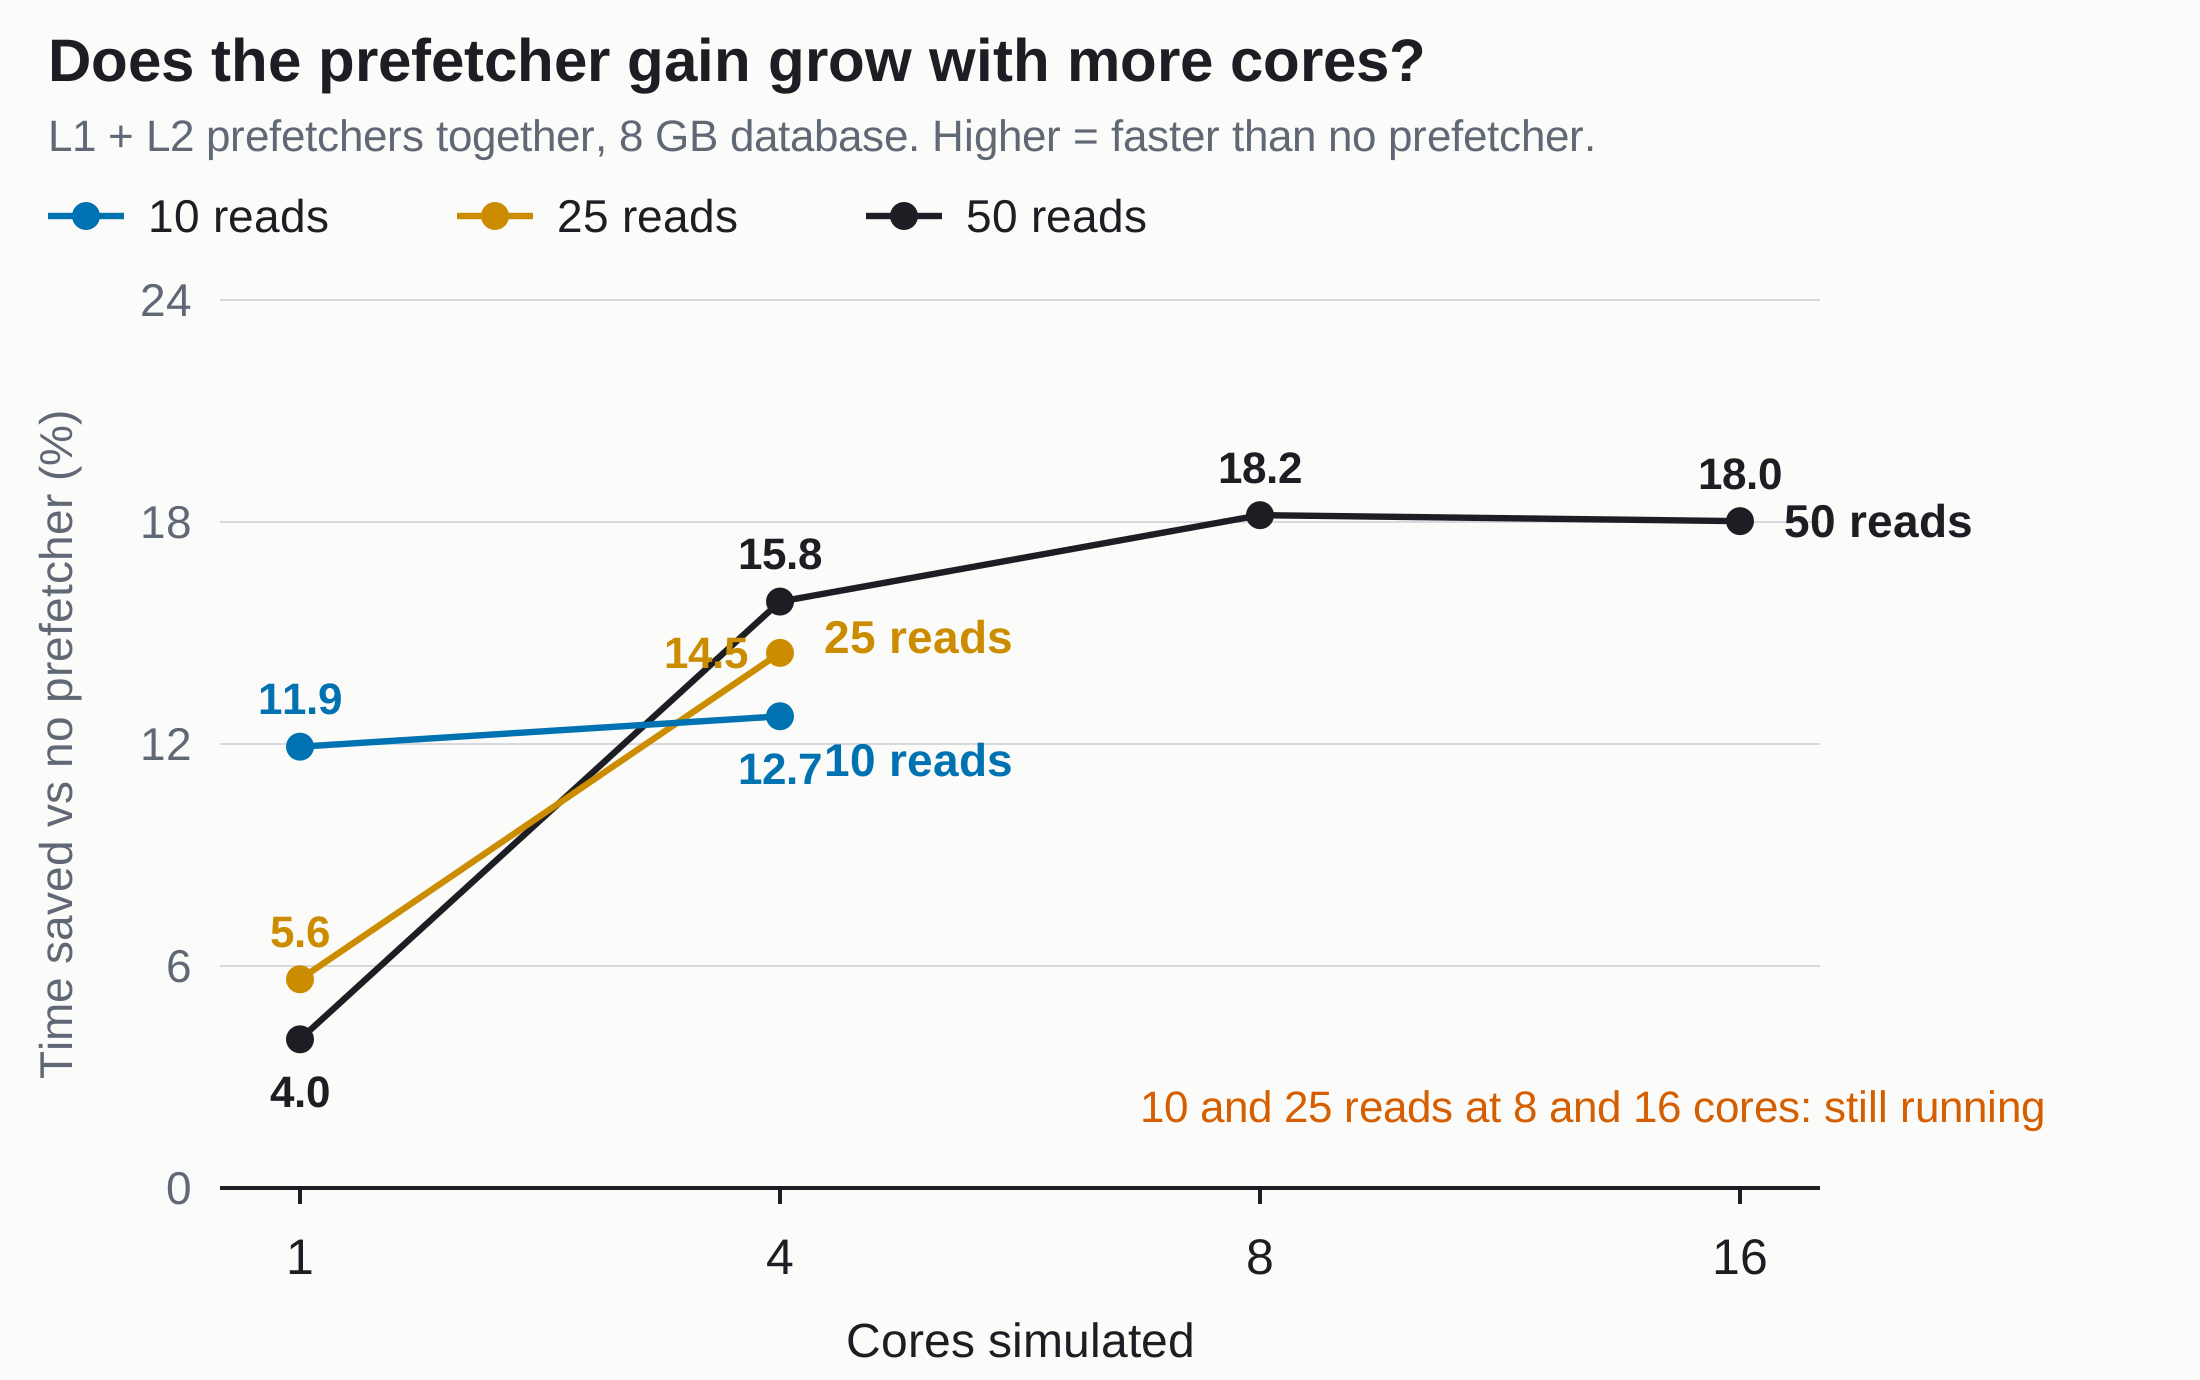
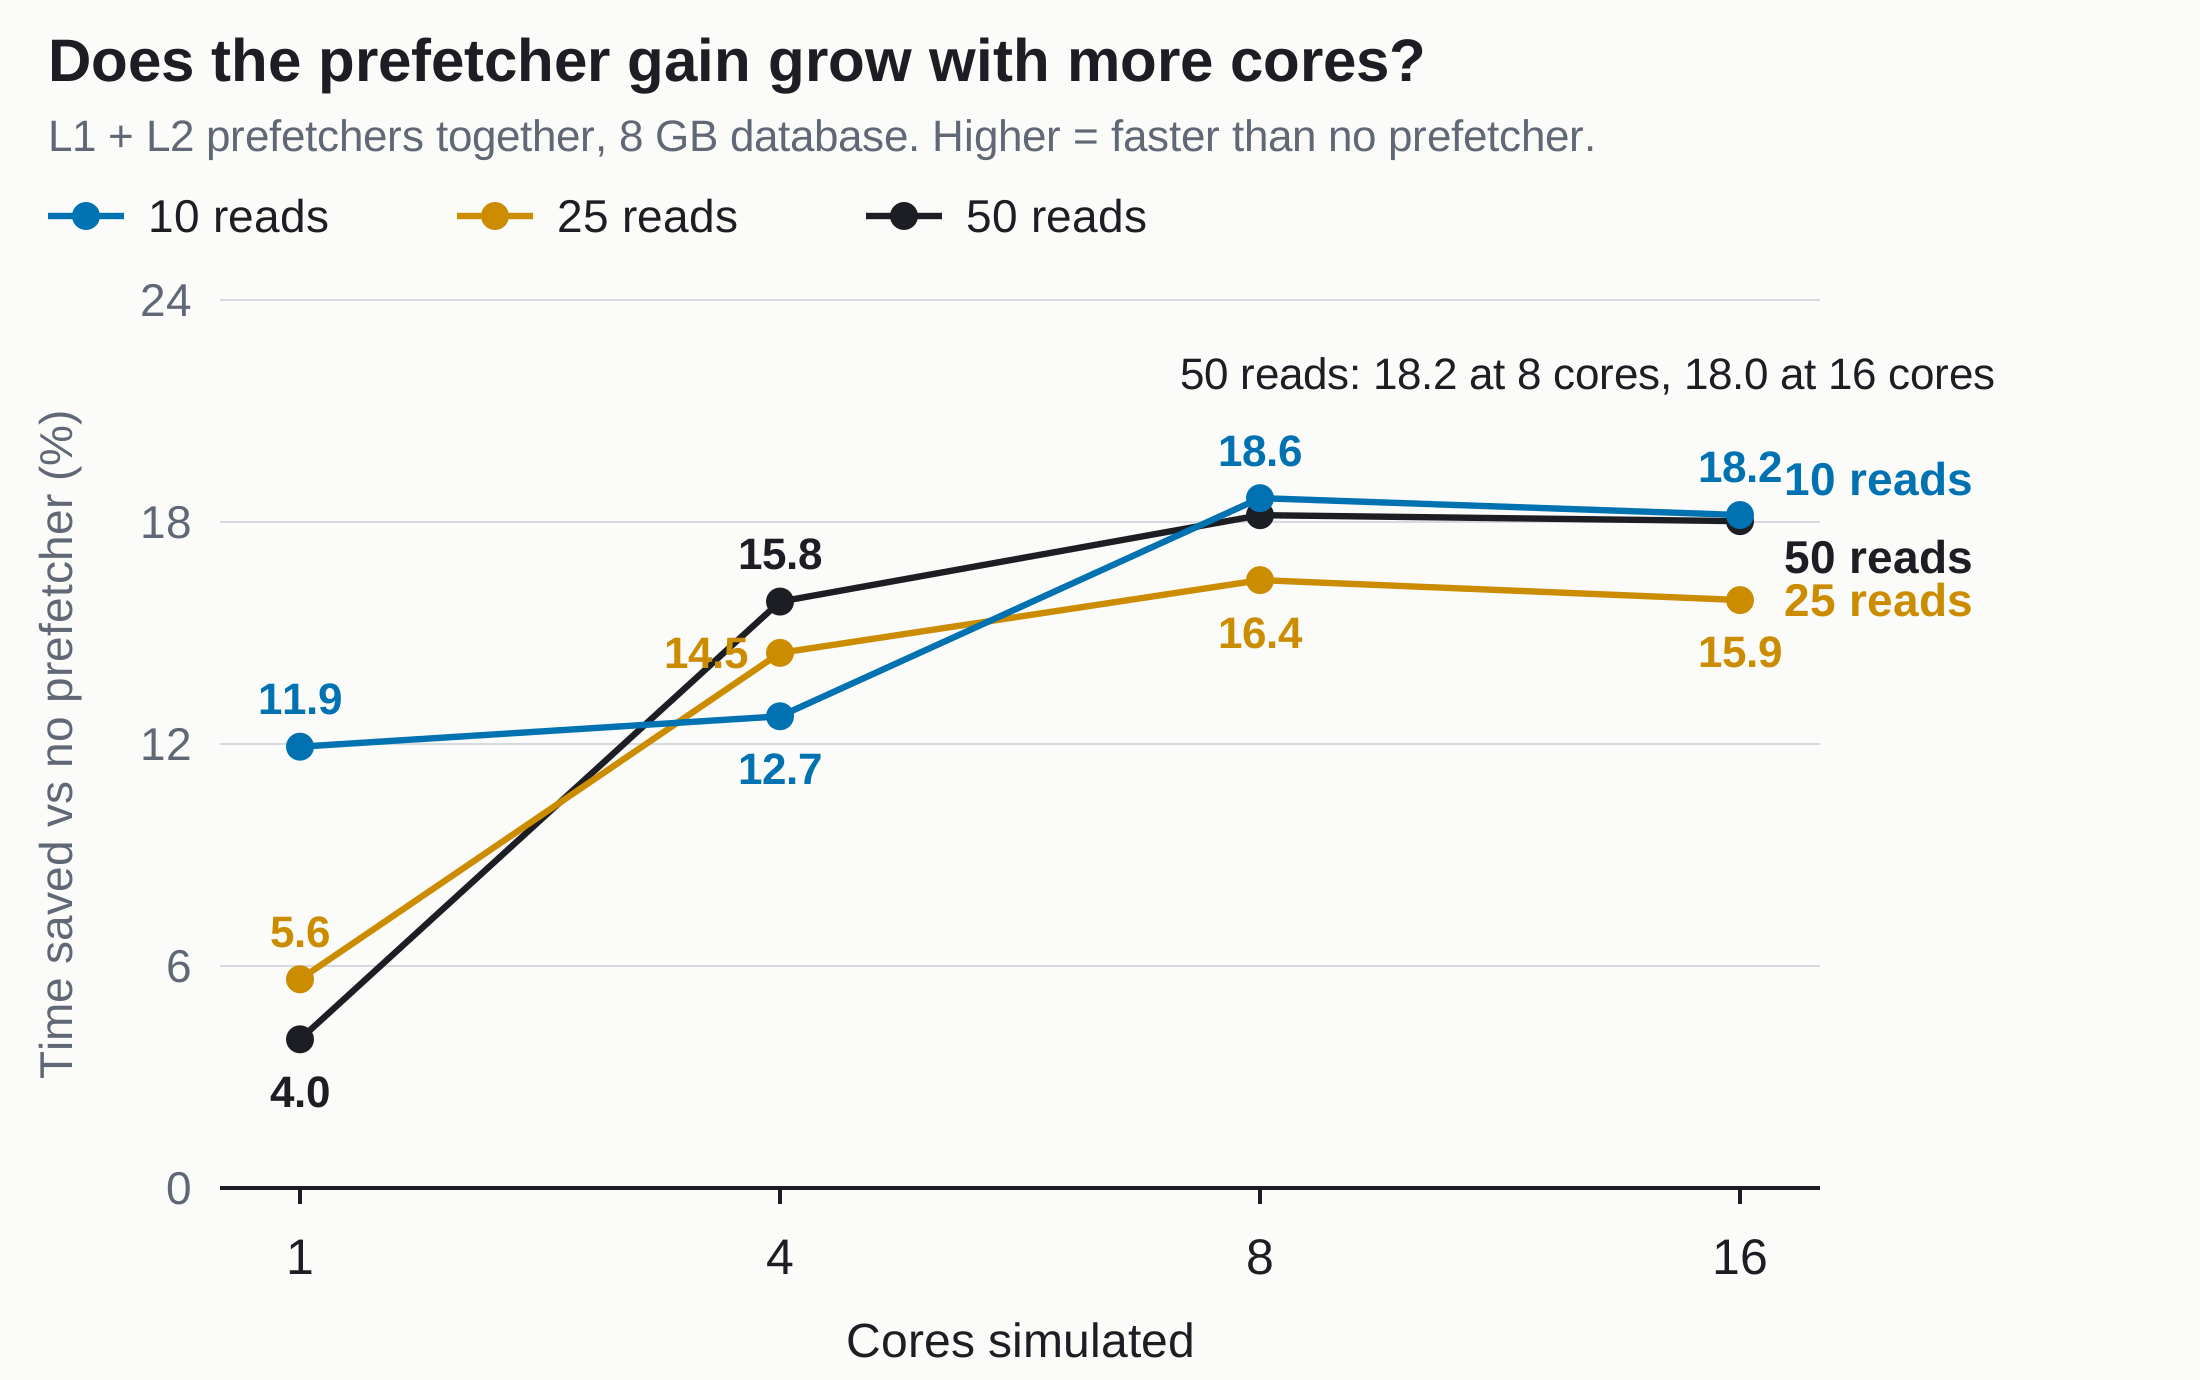
cache_simulation: sniper redo: 8 and 16 cores at 10 and 25 reads done (198 runs); gain is 16 to 19% at every read count; slide 2 updated

diff --git a/cache_simulation/sniper_redo/deck2/project/slides/cores.html b/cache_simulation/sniper_redo/deck2/project/slides/cores.html
@@ -1,12 +1,12 @@
 <section id="cores" data-transition="fade">
 <h2>More cores, a bigger prefetching gain</h2>
 <div class="chartrow">
-<img src="/_blob/89b083a33649e8f7692cfb26c497d13b" alt="Line chart of time saved by L1 and L2 prefetchers together against the number of cores simulated, 1, 4, 8 and 16, with one line each for 10, 25 and 50 reads on the 8 GB database. On one core the saving is 11.9, 5.6 and 4.0 percent for 10, 25 and 50 reads. On four cores it is 12.7, 14.5 and 15.8 percent. At 8 and 16 cores with 50 reads it is 18.2 and 18.0 percent. The 10 and 25 read points at 8 and 16 cores were still running when this slide was made." style="width:1000px; height:627px; object-fit:contain">
+<img src="/_blob/4d6b4b9f0c276f58bfc41fa57574f5d2" alt="Line chart of time saved by L1 and L2 prefetchers together against the number of cores simulated, 1, 4, 8 and 16, with one line each for 10, 25 and 50 reads on the 8 GB database. On one core the saving is 11.9, 5.6 and 4.0 percent for 10, 25 and 50 reads. On four cores it is 12.7, 14.5 and 15.8 percent. At 8 cores it is 18.6, 16.4 and 18.2 percent, and at 16 cores 18.2, 15.9 and 18.0 percent." style="width:1000px; height:627px; object-fit:contain">
 <div class="side">
 <div class="blk"><h3>How to read it</h3><p>One line per read count. Height is the time saved by the L1 and L2 prefetchers together, against a run with no prefetcher. Higher is faster.</p></div>
-<div class="blk"><h3>What we found</h3><p>One core: 4% to 12% saved. Four cores: 13% to 16%. At 8 and 16 cores on 50 reads: 18%. On the 16 GB database at 16 cores: 24.9%.</p></div>
-<div class="blk warn"><h3>Caution</h3><p>With few reads per core, start-up work is a large share of the run, and part of the multi-core gain may be that. Not tested.</p></div>
+<div class="blk"><h3>What we found</h3><p>One core: 4% to 12% saved. Four cores: 13% to 16%. Eight and 16 cores: 16% to 19% at every read count. On the 16 GB database at 16 cores: 24.9%.</p></div>
+<div class="blk warn"><h3>Caution</h3><p>At 8 and 16 cores the gain is the same at 10, 25 and 50 reads, yet at 10 reads on 16 cores most of the 64 M instructions are thread start-up. So much of the multi-core gain is likely start-up work. Not proven.</p></div>
 </div>
 </div>
-<aside>All values are Sniper simulated time, with and without the prefetchers, at the same core count, read count and database. The baseline has no prefetcher at all, so the gain on the real machine, whose CPU already has prefetchers, would be smaller. Instruction count at 50 reads rises from 52 M on one core to 87 M on 8 cores and 130 M on 16 cores, which is thread start-up and splitting overhead. A control (a 4-way LLC change) stayed within 0.9% of base at every core count, so the gap is not noise. The 8 and 16 core runs at 10 and 25 reads were still running when this was built; the graph marks the missing points.</aside>
+<aside>All values are Sniper simulated time, with and without the prefetchers, at the same core count, read count and database. The baseline has no prefetcher at all, so the gain on the real machine, whose CPU already has prefetchers, would be smaller. Instruction counts: 10 reads takes 7.3 M instructions on one core but 32 M on 8 cores and 64 M on 16 cores; 50 reads takes 52 M, 87 M and 130 M. The extra instructions are thread start-up and splitting overhead, and they grow with the core count. That is consistent with the gain growing with cores while staying flat across read counts, but we have not tested it directly. A control (a 4-way LLC change) stayed within 0.9% of base at every core count, so the gain is not noise. Exact values at 8 cores: 18.6, 16.4, 18.2 percent; at 16 cores: 18.2, 15.9, 18.0 percent (10, 25, 50 reads).</aside>
 </section>

diff --git a/cache_simulation/sniper_redo/figures/plot_figs.py b/cache_simulation/sniper_redo/figures/plot_figs.py
@@ -389,15 +389,20 @@ def fig6(c, bg):
 
     # value labels: 50 reads above, 10 reads above at 1 core and below at 4+ cores, 25 reads below its point,
     # so the three never share the crowded 4-core spot
+    # at 8 and 16 cores the 10- and 50-read lines are within 0.6 points of each other, so their values are
+    # given in one note instead of two labels on top of each other
     series = [
-        {"vals": get(50), "color": INK, "label": "50 reads", "below": (0,)},
-        {"vals": get(25), "color": AMBER, "label": "25 reads", "left": (1, 2, 3), "label_dy": -8},
-        {"vals": get(10), "color": BLUE, "label": "10 reads", "below": (1, 2, 3), "label_dy": 22},
+        {"vals": get(50), "color": INK, "label": "50 reads", "below": (0,), "skip": (2, 3), "label_dy": 18},
+        {"vals": get(25), "color": AMBER, "label": "25 reads", "left": (1,), "below": (2, 3)},
+        {"vals": get(10), "color": BLUE, "label": "10 reads", "below": (1,), "label_dy": -18},
     ]
     head = ("Does the prefetcher gain grow with more cores?",
             "L1 + L2 prefetchers together, 8 GB database. Higher = faster than no prefetcher.",
             [("line", BLUE, "10 reads"), ("line", AMBER, "25 reads"), ("line", INK, "50 reads")])
     anns = []
+    if all(v is not None for v in get(50)[2:]):
+        anns.append({"i": 2, "v": 22.0, "dx": -40, "color": INK,
+                     "text": f"50 reads: {get(50)[2]:.1f} at 8 cores, {get(50)[3]:.1f} at 16 cores"})
     if any(v is None for v in get(10)[2:] + get(25)[2:]):  # shown only while those runs are missing
         anns.append({"i": 2, "v": 2.2, "text": "10 and 25 reads at 8 and 16 cores: still running", "dx": -60, "color": ORANGE})
     line_chart(c, bg, W, H, cores, series, 24, [0, 6, 12, 18, 24], "Time saved vs no prefetcher (%)",
